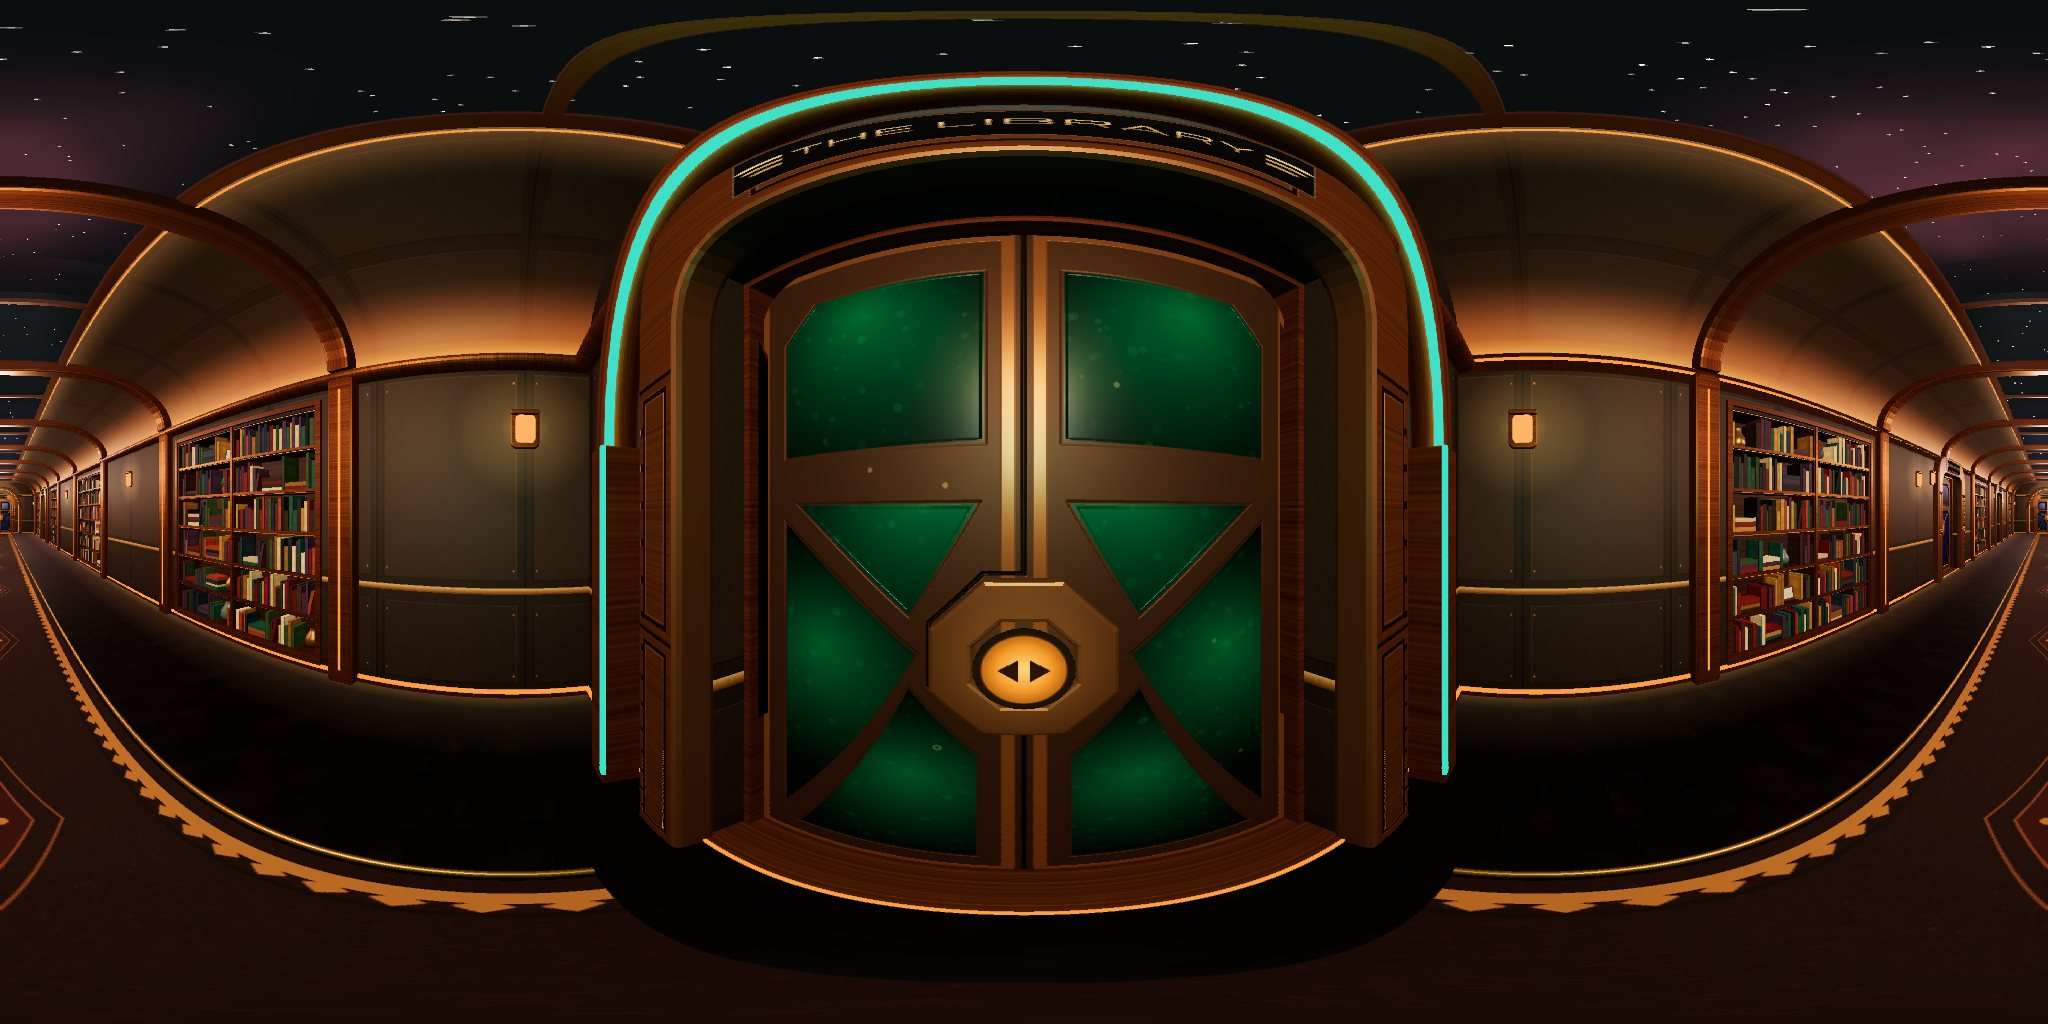
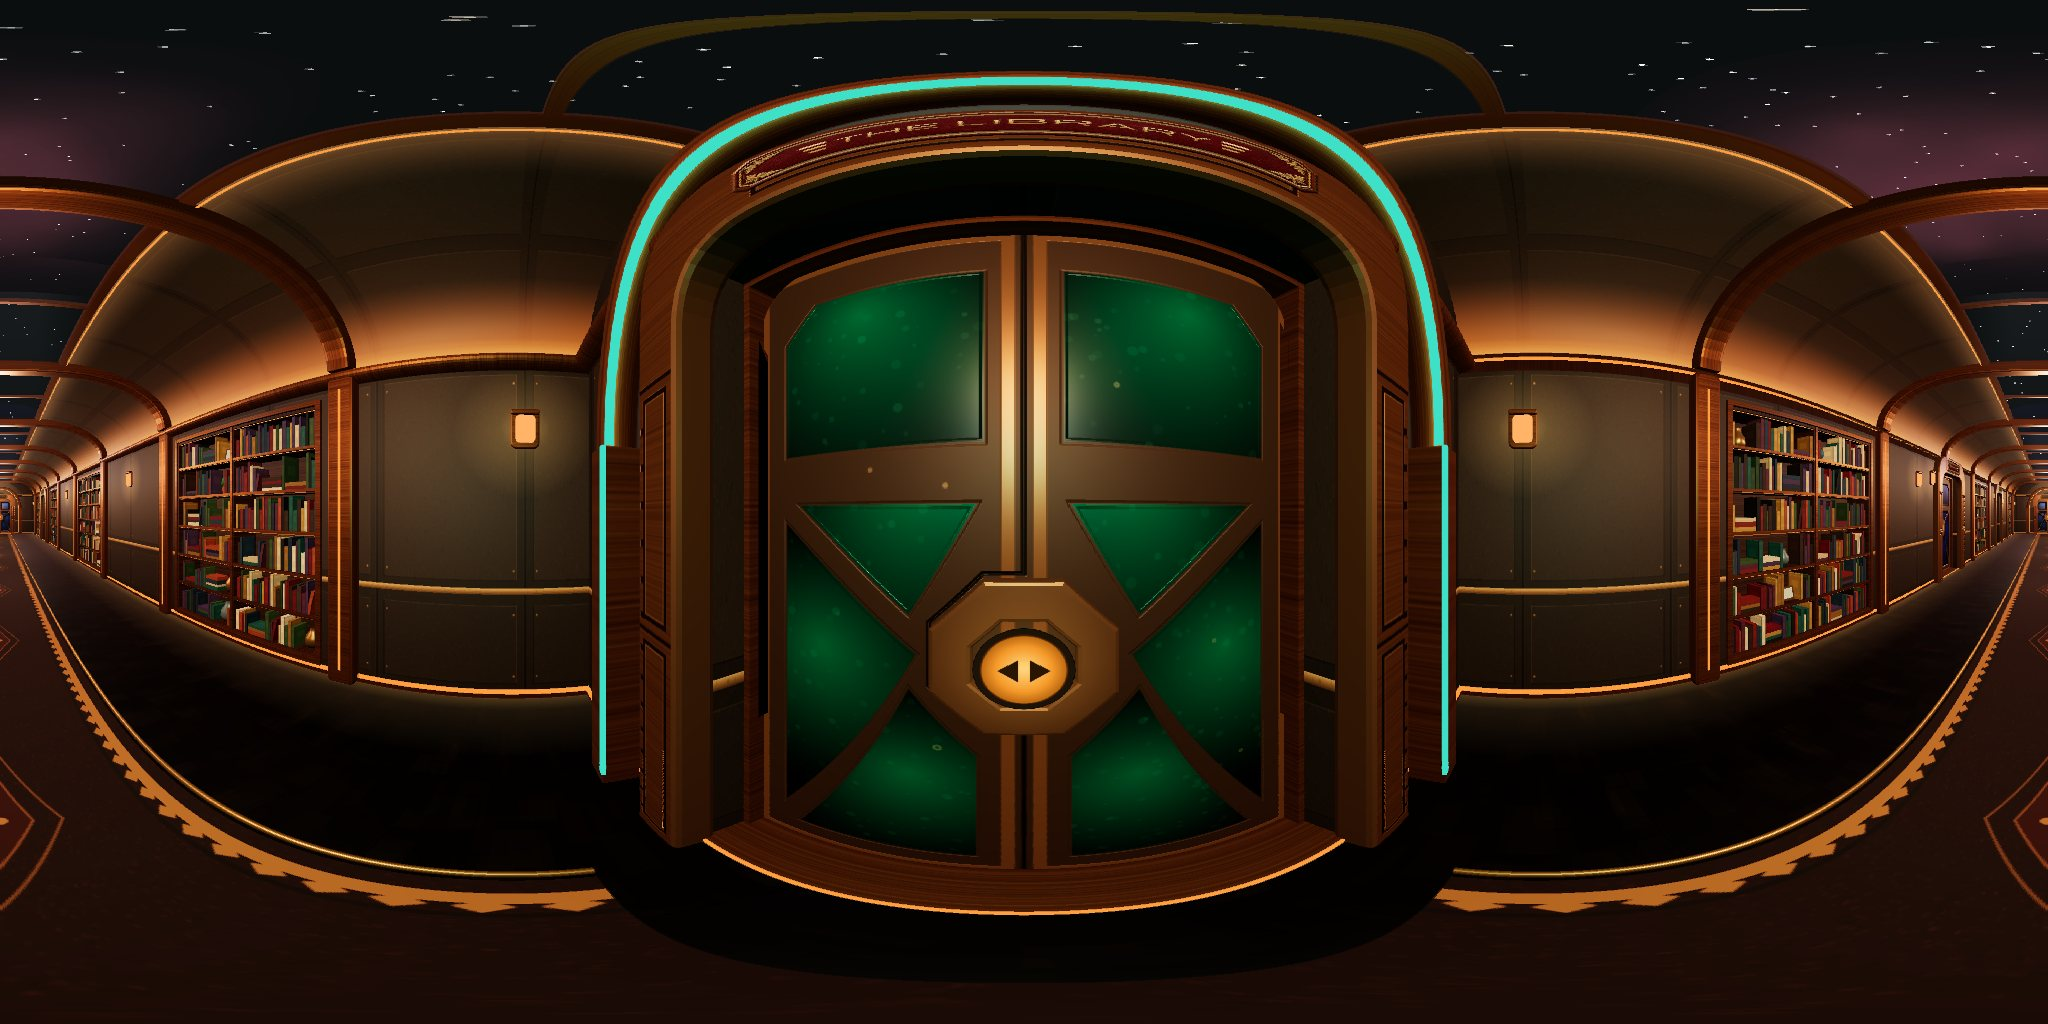
Door nameplates: the user's oxblood leather plaque with gold filigree behind the gold Michroma lettering
Claude-Session: https://claude.ai/code/session_015swmRW9rk9HZt8JyLRwsXT

Changed region(s): [[0.3438, 0.0938, 0.6562, 0.1875]]

diff --git a/door.js b/door.js
@@ -132,27 +132,30 @@
     var base = (document.currentScript && document.currentScript.src || '').replace(/[^\/]*$/, '');
     new FontFace('Michroma', 'url(' + base + 'fonts/michroma.woff2)').load().then(function (f) { document.fonts.add(f); PLATES.forEach(function (p) { p.draw(); p.tex.needsUpdate = true; }); }).catch(function () {});
   }
+  // the plaque itself (user, Nov 25): the oxblood leather + gold-filigree panel from their book (images/nameplate.png, the
+  // 'MENU' plaque with its lettering removed); our gold Michroma lettering + logo wings sit on it, inside the corner leaves.
+  var PLAQUE = new Image(); PLAQUE.src = (document.currentScript && document.currentScript.src || '').replace(/[^\/]*$/, '') + 'images/nameplate.png?v=1';
+  PLAQUE.onload = function () { PLATES.forEach(function (p) { p.draw(); p.tex.needsUpdate = true; }); };
   function plate(text, w, h) {
     var c = cv(w, h), x = c.getContext('2d'), t = new THREE.CanvasTexture(c);
     function draw() {
       x.clearRect(0, 0, w, h);
-      var bg = x.createLinearGradient(0, 0, 0, h); bg.addColorStop(0, '#0c0a08'); bg.addColorStop(1, '#050403'); x.fillStyle = bg; x.fillRect(0, 0, w, h);
-      x.strokeStyle = '#7a5530'; x.lineWidth = 4; x.strokeRect(3, 3, w - 6, h - 6);
-      var gold = x.createLinearGradient(0, h * 0.25, 0, h * 0.78); gold.addColorStop(0, '#fff1c8'); gold.addColorStop(0.45, '#e0b064'); gold.addColorStop(0.55, '#b07a34'); gold.addColorStop(1, '#f0cc80');
+      if (PLAQUE.complete && PLAQUE.naturalWidth) x.drawImage(PLAQUE, 0, 0, w, h);
+      else { x.fillStyle = '#5a1414'; x.fillRect(w * 0.02, h * 0.06, w * 0.96, h * 0.88); }
+      var gold = x.createLinearGradient(0, h * 0.3, 0, h * 0.72); gold.addColorStop(0, '#fff1c8'); gold.addColorStop(0.45, '#e8bc70'); gold.addColorStop(0.55, '#b07a34'); gold.addColorStop(1, '#f6d690');
       x.textAlign = 'center'; x.textBaseline = 'middle';
-      var wing = w * 0.13, room = w - wing * 2 - 40, fs = Math.min(h * 0.42, room / (text.length * 0.92));
+      var cy = h * 0.5, inner = w * 0.66, wing = w * 0.055, room = inner - wing * 2 - 30, fs = Math.min(h * 0.26, room / (text.length * 0.92));
       x.font = '400 ' + fs + 'px ' + FONT; if (x.letterSpacing !== undefined) x.letterSpacing = (fs * 0.06) + 'px';
       var tw = x.measureText(text).width;
       if (tw > room) { fs *= room / tw; x.font = '400 ' + fs + 'px ' + FONT; if (x.letterSpacing !== undefined) x.letterSpacing = (fs * 0.06) + 'px'; tw = x.measureText(text).width; }
-      x.fillStyle = 'rgba(0,0,0,0.6)'; x.fillText(text, w / 2 + 2, h / 2 + 3);
-      x.fillStyle = gold; x.fillText(text, w / 2, h / 2 + 1);
-      // wings: three tapering bars and an arrow tip, mirrored
-      [-1, 1].forEach(function (sd) {
-        var inner = w / 2 + sd * (tw / 2 + 18), outer = inner + sd * wing;
+      x.fillStyle = 'rgba(20,4,2,0.75)'; x.fillText(text, w / 2 + 2, cy + 3);          // pressed into the leather
+      x.fillStyle = gold; x.fillText(text, w / 2, cy + 1);
+      [-1, 1].forEach(function (sd) {                                                    // small logo wings, clear of the corner leaves
+        var st = w / 2 + sd * (tw / 2 + 14);
         for (var k = 0; k < 3; k++) {
-          var y = h / 2 - h * 0.13 + k * h * 0.13, len = wing * (1 - k * 0.18), th = h * 0.055;
+          var y = cy - h * 0.075 + k * h * 0.075, len = wing * (1 - k * 0.2), th = h * 0.032;
           x.fillStyle = gold; x.beginPath();
-          x.moveTo(inner, y - th / 2); x.lineTo(inner + sd * len * 0.82, y - th / 2); x.lineTo(inner + sd * len, y); x.lineTo(inner + sd * len * 0.82, y + th / 2); x.lineTo(inner, y + th / 2); x.closePath(); x.fill();
+          x.moveTo(st, y - th / 2); x.lineTo(st + sd * len * 0.82, y - th / 2); x.lineTo(st + sd * len, y); x.lineTo(st + sd * len * 0.82, y + th / 2); x.lineTo(st, y + th / 2); x.closePath(); x.fill();
         }
       });
     }
@@ -227,7 +230,7 @@
     g.userData.noCollide = true;   // doorways stay walkable (mobile.js obstacle scan skips this subtree)
     var depth = o.depth || 0.1;
     var fr = new THREE.Mesh(soft(frameShape(), depth, 0.025), [R.frame, R.side]); fr.position.z = 0.12 - depth; g.add(fr);
-    var nm = new THREE.Mesh(new THREE.PlaneGeometry(1.1, 0.244), new THREE.MeshBasicMaterial({ map: plate(o.name, 900, 200), fog: false, toneMapped: false }));
+    var nm = new THREE.Mesh(new THREE.PlaneGeometry(1.12, 0.36), new THREE.MeshBasicMaterial({ map: plate(o.name, 1024, 330), transparent: true, alphaTest: 0.02, fog: false, toneMapped: false }));
     nm.position.set(0, (DOOR_H + FR_TOP) / 2, 0.16); g.add(nm);
     if (depth > 0.2 && !o.noPockets) {  // free-standing (room) door: threshold, plus pocket housings the leaves slide into
       var th = new THREE.Mesh(new THREE.BoxGeometry(DOOR_W, 0.02, depth), R.side); th.position.set(0, 0.01, 0.12 - depth / 2); g.add(th);

diff --git a/lounge.html b/lounge.html
@@ -20,15 +20,15 @@
   <meta property="og:image:height" content="630">
   <meta property="og:image:alt" content="The copper SS Wayfarer, its teal library dome glowing, cruising above a night-side planet.">
   <meta name="twitter:card" content="summary_large_image">
-  <script src="textures.js?v=20261125t"></script>
+  <script src="textures.js?v=20261125u"></script>
   <script src="https://aframe.io/releases/1.5.0/aframe.min.js"></script>
-  <script src="mobile.js?v=20261125t"></script>
-  <script src="sound.js?v=20261125t"></script>
-  <script src="avatar.js?v=20261125t"></script>
-  <script src="door.js?v=20261125t"></script>
-  <script src="props.js?v=20261125t"></script>
-  <script src="hyperspace.js?v=20261125t"></script>
-  <script src="cats.js?v=20261125t"></script>
+  <script src="mobile.js?v=20261125u"></script>
+  <script src="sound.js?v=20261125u"></script>
+  <script src="avatar.js?v=20261125u"></script>
+  <script src="door.js?v=20261125u"></script>
+  <script src="props.js?v=20261125u"></script>
+  <script src="hyperspace.js?v=20261125u"></script>
+  <script src="cats.js?v=20261125u"></script>
   <style>
     * { margin: 0; padding: 0; box-sizing: border-box; }
     body { overflow: hidden; background: #000; }

diff --git a/library.html b/library.html
@@ -23,15 +23,15 @@
   <meta name="theme-color" content="#000208">
   <meta name="apple-mobile-web-app-capable" content="yes">
   <meta name="mobile-web-app-capable" content="yes">
-  <script src="textures.js?v=20261125t"></script>
+  <script src="textures.js?v=20261125u"></script>
   <script src="https://aframe.io/releases/1.5.0/aframe.min.js"></script>
-  <script src="brain.js?v=20261125t"></script>
-  <script src="mobile.js?v=20261125t"></script>
-  <script src="sound.js?v=20261125t"></script>
-  <script src="avatar.js?v=20261125t"></script>
-  <script src="door.js?v=20261125t"></script>
-  <script src="props.js?v=20261125t"></script>
-  <script src="hyperspace.js?v=20261125t"></script>
+  <script src="brain.js?v=20261125u"></script>
+  <script src="mobile.js?v=20261125u"></script>
+  <script src="sound.js?v=20261125u"></script>
+  <script src="avatar.js?v=20261125u"></script>
+  <script src="door.js?v=20261125u"></script>
+  <script src="props.js?v=20261125u"></script>
+  <script src="hyperspace.js?v=20261125u"></script>
   <style>
     * { margin: 0; padding: 0; box-sizing: border-box; }
     body { overflow: hidden; background: #000; }

diff --git a/bridge.html b/bridge.html
@@ -21,12 +21,12 @@
   <meta property="og:image:alt" content="The copper SS Wayfarer, its teal library dome glowing, cruising above a night-side planet.">
   <meta name="twitter:card" content="summary_large_image">
   <script src="https://aframe.io/releases/1.5.0/aframe.min.js"></script>
-  <script src="mobile.js?v=20261125t"></script>
-  <script src="sound.js?v=20261125t"></script>
-  <script src="avatar.js?v=20261125t"></script>
-  <script src="door.js?v=20261125t"></script>
-  <script src="hyperspace.js?v=20261125t"></script>
-  <script src="lcars.js?v=20261125t"></script>
+  <script src="mobile.js?v=20261125u"></script>
+  <script src="sound.js?v=20261125u"></script>
+  <script src="avatar.js?v=20261125u"></script>
+  <script src="door.js?v=20261125u"></script>
+  <script src="hyperspace.js?v=20261125u"></script>
+  <script src="lcars.js?v=20261125u"></script>
   <script>if (/[?&]from=flight/.test(location.search)) document.documentElement.className += ' from-flight';</script>
   <style>
     * { margin: 0; padding: 0; box-sizing: border-box; }

diff --git a/index.html b/index.html
@@ -20,13 +20,13 @@
   <meta property="og:image:height" content="630">
   <meta property="og:image:alt" content="The copper SS Wayfarer, its teal library dome glowing, cruising above a night-side planet.">
   <meta name="twitter:card" content="summary_large_image">
-  <script src="textures.js?v=20261125t"></script>
+  <script src="textures.js?v=20261125u"></script>
   <script src="https://aframe.io/releases/1.5.0/aframe.min.js"></script>
-  <script src="mobile.js?v=20261125t"></script>
-  <script src="sound.js?v=20261125t"></script>
-  <script src="avatar.js?v=20261125t"></script>
-  <script src="door.js?v=20261125t"></script>
-  <script src="hyperspace.js?v=20261125t"></script>
+  <script src="mobile.js?v=20261125u"></script>
+  <script src="sound.js?v=20261125u"></script>
+  <script src="avatar.js?v=20261125u"></script>
+  <script src="door.js?v=20261125u"></script>
+  <script src="hyperspace.js?v=20261125u"></script>
   <style>
     * { margin: 0; padding: 0; box-sizing: border-box; }
     body { overflow: hidden; background: #000; }

diff --git a/holodeck.html b/holodeck.html
@@ -31,14 +31,14 @@
     g.beginPath(); g.moveTo(0,0); g.lineTo(0,128); g.stroke();
     window.GRID_TEX = gc.toDataURL();
   </script>
-  <script src="textures.js?v=20261125t"></script>
+  <script src="textures.js?v=20261125u"></script>
   <script src="https://aframe.io/releases/1.5.0/aframe.min.js"></script>
-  <script src="mobile.js?v=20261125t"></script>
-  <script src="sound.js?v=20261125t"></script>
-  <script src="avatar.js?v=20261125t"></script>
-  <script src="door.js?v=20261125t"></script>
-  <script src="props.js?v=20261125t"></script>
-  <script src="stargarden.js?v=20261125t"></script>
+  <script src="mobile.js?v=20261125u"></script>
+  <script src="sound.js?v=20261125u"></script>
+  <script src="avatar.js?v=20261125u"></script>
+  <script src="door.js?v=20261125u"></script>
+  <script src="props.js?v=20261125u"></script>
+  <script src="stargarden.js?v=20261125u"></script>
   <style>
     * { margin:0; padding:0; box-sizing:border-box; }
     body { overflow:hidden; background:#000; }

diff --git a/media.html b/media.html
@@ -21,11 +21,11 @@
   <meta property="og:image:alt" content="The copper SS Wayfarer, its teal library dome glowing, cruising above a night-side planet.">
   <meta name="twitter:card" content="summary_large_image">
   <script src="https://aframe.io/releases/1.5.0/aframe.min.js"></script>
-  <script src="mobile.js?v=20261125t"></script>
-  <script src="sound.js?v=20261125t"></script>
-  <script src="avatar.js?v=20261125t"></script>
-  <script src="door.js?v=20261125t"></script>
-  <script src="props.js?v=20261125t"></script>
+  <script src="mobile.js?v=20261125u"></script>
+  <script src="sound.js?v=20261125u"></script>
+  <script src="avatar.js?v=20261125u"></script>
+  <script src="door.js?v=20261125u"></script>
+  <script src="props.js?v=20261125u"></script>
   <style>
     * { margin: 0; padding: 0; box-sizing: border-box; }
     body { overflow: hidden; background: #000; }

diff --git a/station.html b/station.html
@@ -14,11 +14,11 @@
   <link rel="icon" href="/aspentrail/icons/favicon.ico?v=2">
   <script>if (/[?&]from=dock/.test(location.search)) document.documentElement.className += ' from-dock';</script>
   <script src="https://aframe.io/releases/1.5.0/aframe.min.js"></script>
-  <script src="mobile.js?v=20261125t"></script>
-  <script src="sound.js?v=20261125t"></script>
-  <script src="avatar.js?v=20261125t"></script>
-  <script src="lcars.js?v=20261125t"></script>
-  <script src="missions.js?v=20261125t"></script>
+  <script src="mobile.js?v=20261125u"></script>
+  <script src="sound.js?v=20261125u"></script>
+  <script src="avatar.js?v=20261125u"></script>
+  <script src="lcars.js?v=20261125u"></script>
+  <script src="missions.js?v=20261125u"></script>
   <style>
     * { margin: 0; padding: 0; box-sizing: border-box; }
     body { overflow: hidden; background: #000; }

diff --git a/minigame.html b/minigame.html
@@ -22,9 +22,9 @@
   <meta name="twitter:card" content="summary_large_image">
   <script src="https://cdnjs.cloudflare.com/ajax/libs/three.js/r128/three.min.js"></script>
   <script src="https://cdn.jsdelivr.net/npm/three@0.128.0/examples/js/loaders/GLTFLoader.js"></script>
-  <script src="shipskin.js?v=20261125t"></script>
-  <script src="missions.js?v=20261125t"></script>
-  <script src="sound.js?v=20261125t"></script>
+  <script src="shipskin.js?v=20261125u"></script>
+  <script src="missions.js?v=20261125u"></script>
+  <script src="sound.js?v=20261125u"></script>
   <script>if (/[?&]from=(bridge|station)/.test(location.search)) document.documentElement.className += ' from-bridge';</script>
   <style>
     * { margin: 0; padding: 0; box-sizing: border-box; }

diff --git a/hangar.html b/hangar.html
@@ -14,7 +14,7 @@
   <link rel="icon" href="/aspentrail/icons/favicon.ico?v=2">
   <script src="https://cdnjs.cloudflare.com/ajax/libs/three.js/r128/three.min.js"></script>
   <script src="https://cdn.jsdelivr.net/npm/three@0.128.0/examples/js/loaders/GLTFLoader.js"></script>
-  <script src="shipskin.js?v=20261125t"></script>
+  <script src="shipskin.js?v=20261125u"></script>
   <script src="https://cdn.jsdelivr.net/npm/three@0.128.0/examples/js/controls/OrbitControls.js"></script>
   <style>
     * { margin: 0; padding: 0; box-sizing: border-box; }

diff --git a/CLAUDE.md b/CLAUDE.md
@@ -60,7 +60,7 @@ Rules drawn from them:
 - A-Frame 1.5.0 from the aframe.io CDN, no build step, plain HTML/JS
 - GitHub Pages deploys from branch `claude/hello-mssbj4` (site: spawnshark.github.io/aspentrail).
   Session work happens on a `claude/...` branch; it is live only after it reaches `claude/hello-mssbj4`.
-- Local scripts are loaded with `?v=<date+letter>` (Safari cached old door.js/mobile.js) — bump it in every page on each push (now 20261125t).
+- Local scripts are loaded with `?v=<date+letter>` (Safari cached old door.js/mobile.js) — bump it in every page on each push (now 20261125u).
 - Shared scripts: `textures.js` (procedural textures), `mobile.js` (touch controls, Nov 24 v3 — user: "like it was in the
   beginning"): NO bar. Two floating frosted-glass thumbsticks in the bottom corners: left = analog walk joystick, right = look
   stick. MENU BAR (Nov 25, user: "like the Mac's menu bar"): #wf-btns is a slim 30 px frosted bar across the TOP on every
@@ -256,7 +256,9 @@ Rules drawn from them:
 ## core-inspiration.jpg, bridge-combat-concept.jpg, lcars-ui.jpg, alien-bioship.jpg, logo-wordmark.jpg)
 Guidelines, not orders: don't destroy what's built if an item doesn't fit.
 - [x] Holodeck console buttons cut by the bronze rim (fixed)
-- [x] Door nameplates in the logo style: Michroma (fonts/michroma.woff2, OFL) gold on black + triple-bar wings (door.js)
+- [x] Door nameplates: gold Michroma lettering + small triple-bar wings (door.js `plate`) on the user's OXBLOOD LEATHER plaque with
+  gold filigree corners (Nov 25, from their book: images/nameplate.png = the 'MENU' plaque with the lettering painted out;
+  full UI sheet in reference/oxblood-ui-assets.png — other frames/buttons there are candidates for menus). Mesh 1.12×0.36.
 - [x] No lettering across the top of the screen (#hud hidden everywhere)
 - [x] LCARS-style animated panels: shared `lcars.js` (`WAYFARER.lcars({w,h,seed,layout:'readout'|'graph'|'keys',label})`,
   redraws ~8 fps). On the Bridge's 8 console screens + 4 key panels (screens were hidden inside their frames before — fixed).
